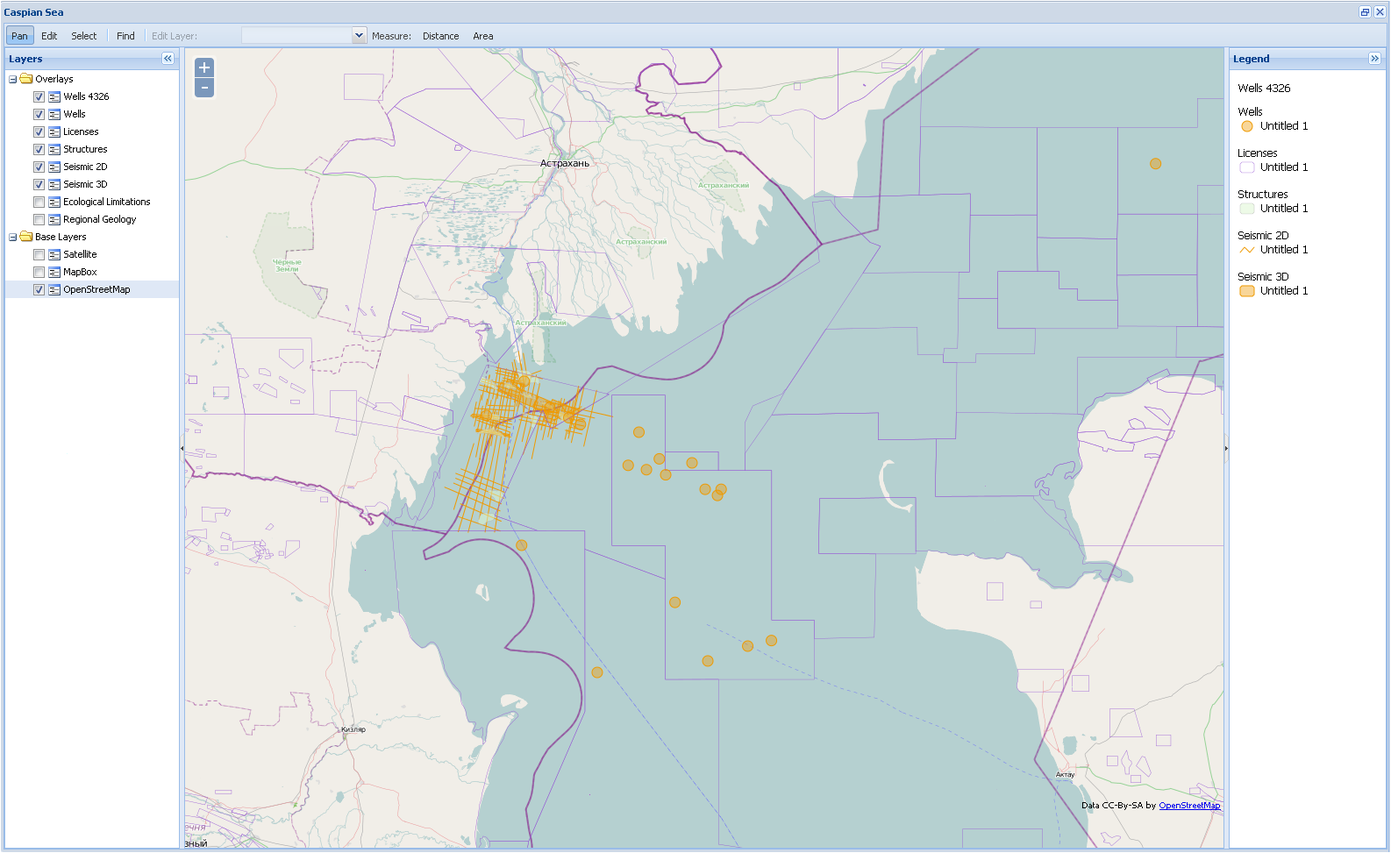
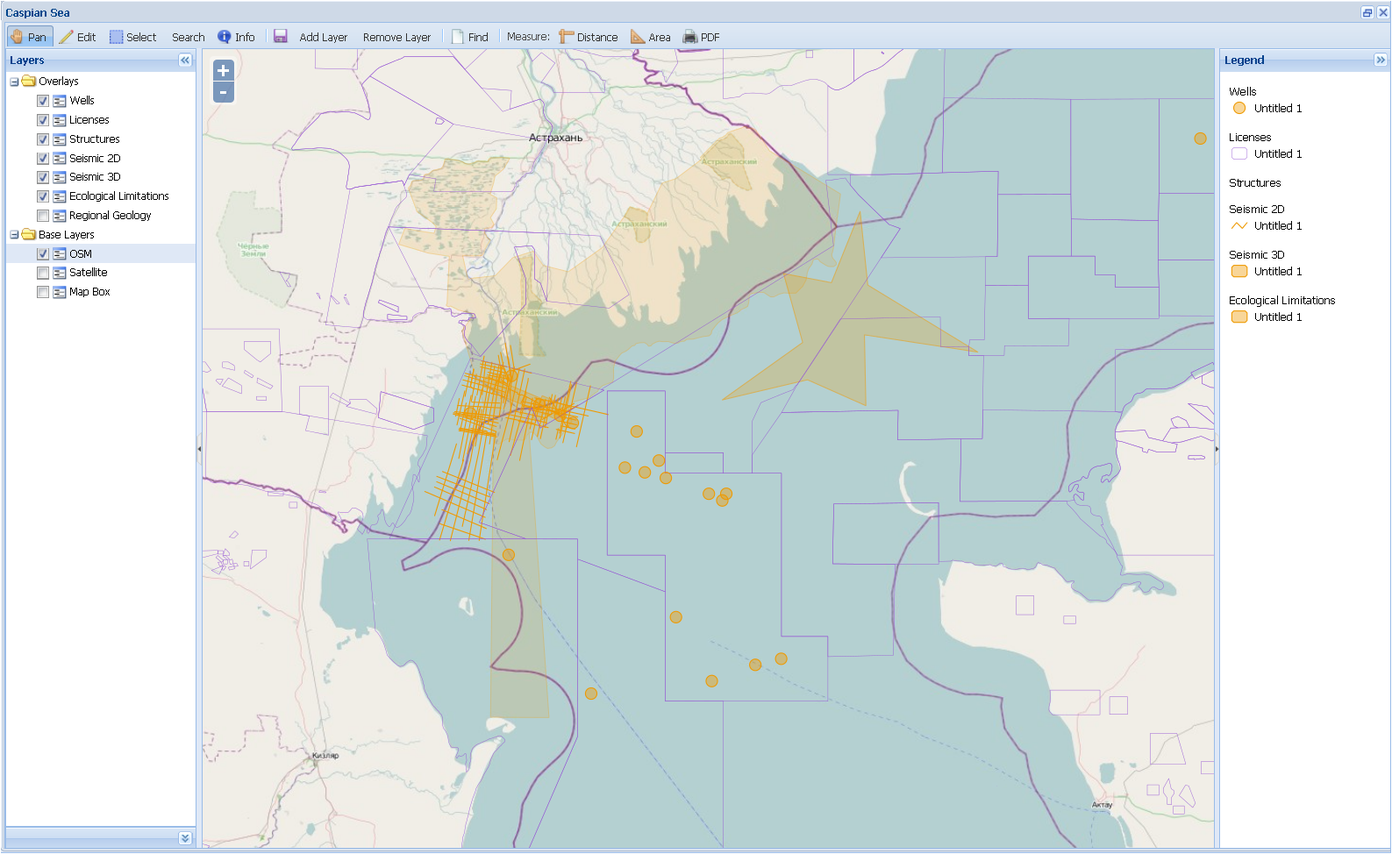
Small fixes? incl. help files

diff --git a/web/app/view/MainWindow.js b/web/app/view/MainWindow.js
@@ -27,7 +27,7 @@ Ext.define('PetroRes.view.MainWindow', {
     
     openPetroWindows: {},
     openPetroWindow: function(handler, windowCfg){
-        var me = this;// Ext.getCmp('MainWindow');
+        var me = Ext.getCmp('MainWindow');//this;// Ext.getCmp('MainWindow');
         var body = me.getLayout().getTarget();
         Ext.applyIf(windowCfg, {
             constrain: true,
@@ -43,7 +43,7 @@ Ext.define('PetroRes.view.MainWindow', {
         });
         var wnd = me.openPetroWindows[handler] ||                         
             (me.openPetroWindows[handler] = 
-            Ext.create('Ext.Window', windowCfg));
+            Ext.create('Ext.window.Window', windowCfg));
         wnd.show();
     },
     
@@ -297,34 +297,20 @@ Ext.define('PetroRes.view.MainWindow', {
                                         }
                                     }
                                     , onUnselect: function(){
-                                        //mapPanel.map.removePopup(selectControlHover.baloon);
                                         selectControlHover.baloon.close();
                                     }
                                     , onSelect: function(selected){
                                         if(selectControlHover.baloon){
-                                            //mapPanel.map.removePopup(selectControlHover.baloon);
                                             selectControlHover.baloon.close();
                                         }
-                                        
-                                        //selectControlHover.baloon = new OpenLayers.Popup("chicken",
-                                        //    new OpenLayers.LonLat(selected.geometry.bounds.right, 
-                                        //        selected.geometry.bounds.bottom),
-                                        //    new OpenLayers.Size(300,200),
-                                        //    '',
-                                        //    false);
-                                        //selectControlHover.baloon.closeOnMove = true;
-                                        //mapPanel.map.addPopup(selectControlHover.baloon);
                                         var pix = mapPanel.map.getPixelFromLonLat(
                                             new OpenLayers.LonLat(selected.geometry.bounds.right, 
                                             selected.geometry.bounds.bottom));
-                                        //console.log(selected);
                                         selectControlHover.baloon = Ext.create('Ext.window.Window', {
-                                        //Ext.create('Ext.panel.Panel', {
-                                            //renderTo: selectControlHover.baloon.contentDiv,
-                                            title: 'Features',
+                                            title: 'Object Attributes',
                                             layout: 'fit',
-                                            height: 200,
-                                            width: 200,
+                                            height: 300,
+                                            width: 300,
                                             x: pix.x,
                                             y: pix.y,
                                             defaults:{
@@ -735,6 +721,7 @@ Ext.define('PetroRes.view.MainWindow', {
                                     {
                                         xtype: 'button',
                                         text: 'Search',
+                                        icon: 'images/search.png',
                                         tooltip: 'Search',
                                         toggleGroup: 'modeGr',
                                         toggleHandler: function (th, pressed){
@@ -792,68 +779,69 @@ Ext.define('PetroRes.view.MainWindow', {
                                     !petroresConfig.userIsAdmin ?undefined:{
                                         xtype: 'button',
                                         text: 'Add Layer',
+                                        icon: 'lib/ext41/resources/themes/images/default/dd/drop-add.gif',
                                         handler: function (){
-                                            var wnd =  Ext.getCmp('MainWindow');
-                                            {
-                                                var form = Ext.create('Ext.form.Panel', {
-                                                    layout: 'anchor',
-                                                    defaults: {
-                                                        anchor: '100%'
+                                            var addLayWnd;
+                                            var form = Ext.create('Ext.form.Panel', {
+                                                layout: 'anchor',
+                                                defaults: {
+                                                    anchor: '100%'
+                                                },
+                                                autoScroll: true,
+                                                items: [
+                                                    {
+                                                        xtype: 'textfield',
+                                                        fieldLabel: 'Name',
+                                                        name: 'name'
                                                     },
-                                                    //autoScroll: true,
-                                                    items: [
-                                                        {
-                                                            xtype: 'textfield',
-                                                            fieldLabel: 'Name',
-                                                            name: 'name'
-                                                        },
-                                                        {
-                                                            xtype: 'textfield',
-                                                            fieldLabel: 'URL',
-                                                            name: 'url'
-                                                        },
-                                                        {
-                                                            xtype: 'textfield',
-                                                            fieldLabel: 'Layer(s)',
-                                                            name: 'layers'
-                                                        }
-                                                    ],
-                                                    buttons: [
-                                                        {
-                                                            text: 'Add',
-                                                            handler: function(){
-                                                                var attrs = form.getForm().getFieldValues(true);
-                                                                mapPanel.map.addLayer(new OpenLayers.Layer.WMS(
-                                                                    attrs.name, 
-                                                                    attrs.url, 
-                                                                    {
-                                                                        layers: attrs.layers
-                                                                    }, {
-                                                                        transitionEffect: 'resize',
-                                                                        projection: 'EPSG:900913'
-                                                                    })
-                                                                );
-                                                                wnd.openPetroWindows.addLayerWnd.close();
-                                                        }
-                                                        }                                            
-                                                    ]
-                                                });
-                                                wnd.openPetroWindow('addLayerWnd', {
-                                                    closable: true,
-                                                    title: 'Add WMS Layer',
-                                                    maximizable: false,
-                                                    maximized: false,
-                                                    layout: 'fit',
-                                                    items: [
-                                                        form
-                                                    ]
-                                                });
-                                            }                                            
+                                                    {
+                                                        xtype: 'textfield',
+                                                        fieldLabel: 'URL',
+                                                        name: 'url'
+                                                    },
+                                                    {
+                                                        xtype: 'textfield',
+                                                        fieldLabel: 'Layer(s)',
+                                                        name: 'layers'
+                                                    }
+                                                ],
+                                                buttons: [
+                                                    {
+                                                        text: 'Add',
+                                                        handler: function(){
+                                                            var attrs = form.getForm().getFieldValues(true);
+                                                            mapPanel.map.addLayer(new OpenLayers.Layer.WMS(
+                                                                attrs.name, 
+                                                                attrs.url, 
+                                                                {
+                                                                    layers: attrs.layers
+                                                                }, {
+                                                                    transitionEffect: 'resize',
+                                                                    projection: 'EPSG:900913'
+                                                                })
+                                                            );
+                                                            wnd.openPetroWindows.addLayerWnd.close();
+                                                    }
+                                                    }                                            
+                                                ]
+                                            });
+                                            addLayWnd = Ext.create('Ext.window.Window', {
+                                                closable: true,
+                                                title: 'Add WMS Layer',
+                                                maximizable: false,
+                                                maximized: false,
+                                                layout: 'fit',
+                                                items: [
+                                                    form
+                                                ]
+                                            });
+                                            addLayWnd.show();
                                         }
                                     },
                                     !petroresConfig.userIsAdmin ?undefined:{
                                         xtype: 'button',
                                         text: 'Remove Layer',
+                                        icon: 'lib/ext41/examples/restful/images/delete.png',
                                         handler: function (){
                                             if(tree.psSelectedLayer){
                                                 Ext.MessageBox.confirm('Confirm', 
@@ -865,7 +853,7 @@ Ext.define('PetroRes.view.MainWindow', {
                                                 });
                                             }else{
                                                 Ext.MessageBox.show({
-                                                    msg: 'Select layer in tree',
+                                                    msg: 'Select a layer in the layer tree',
                                                     buttons: Ext.Msg.OK
                                                 });
                                             }
@@ -874,8 +862,8 @@ Ext.define('PetroRes.view.MainWindow', {
                                     '-', 
                                     {
                                         xtype: 'button',
-                                        tooltip: 'Find',
-                                        text: 'Find',
+                                        tooltip: 'Find documents for selected objects',
+                                        text: 'Find Documents',
                                         iconCls: 'petroButtonMapFindDocs',
                                         handler: function(){
                                             Ext.Ajax.request({
@@ -959,42 +947,51 @@ Ext.define('PetroRes.view.MainWindow', {
                                         }                                        
                                     },
                                     '-', 
-                                    'Measure: '
-                                    , Ext.create('Ext.button.Button', Ext.create('GeoExt.Action', {
-                                        toggleGroup: 'modeGr',
-                                        iconCls: 'petroButtonMapDistance',
-                                        tooltip: 'Distance',
-                                        text: 'Distance',
-                                        activateOnEnable: true,
-                                        deactivateOnDisable: true,
-                                        control: new OpenLayers.Control.Measure(OpenLayers.Handler.Path, {
-                                            eventListeners: {
-                                                measure: function(evt) {
-                                                    Ext.Msg.alert('Distance',
-                                                        'The distance is ' + evt.measure.toFixed(2) + ' '+ evt.units);
-                                                }
-                                            }                                        
-                                        }),
-                                        map: mapPanel.map
-                                    }))
-                                    , Ext.create('Ext.button.Button', Ext.create('GeoExt.Action', {
-                                        toggleGroup: 'modeGr',
-                                        text: 'Area',
-                                        tooltip: 'Area',
-                                        iconCls: 'petroButtonMapArea',
-                                        activateOnEnable: true,
-                                        deactivateOnDisable: true,
-                                        control: new OpenLayers.Control.Measure(OpenLayers.Handler.Polygon, {
-                                            eventListeners: {
-                                                measure: function(evt) {
-                                                    Ext.Msg.alert('Area',
-                                                        'The area is ' + + evt.measure.toFixed(2) + ' '+ evt.units + '<sup>2</sup>');
-                                                    //alert("The area is " + evt.measure + evt.units);
-                                                }
-                                            }                                        
-                                        }),
-                                        map: mapPanel.map
-                                    }))                                    
+                                    
+                                    
+                                    
+                                    //'Measure: '
+                                    ,{
+                                        xtype: 'button',
+                                        text: 'Measure',
+                                        menu: [
+                                            Ext.create('Ext.button.Button', Ext.create('GeoExt.Action', {
+                                                toggleGroup: 'modeGr',
+                                                iconCls: 'petroButtonMapDistance',
+                                                tooltip: 'Distance',
+                                                text: 'Distance',
+                                                activateOnEnable: true,
+                                                deactivateOnDisable: true,
+                                                control: new OpenLayers.Control.Measure(OpenLayers.Handler.Path, {
+                                                    eventListeners: {
+                                                        measure: function(evt) {
+                                                            Ext.Msg.alert('Distance',
+                                                                'The distance is ' + evt.measure.toFixed(2) + ' '+ evt.units);
+                                                        }
+                                                    }                                        
+                                                }),
+                                                map: mapPanel.map
+                                            }))
+                                            , Ext.create('Ext.button.Button', Ext.create('GeoExt.Action', {
+                                                toggleGroup: 'modeGr',
+                                                text: 'Area',
+                                                tooltip: 'Area',
+                                                iconCls: 'petroButtonMapArea',
+                                                activateOnEnable: true,
+                                                deactivateOnDisable: true,
+                                                control: new OpenLayers.Control.Measure(OpenLayers.Handler.Polygon, {
+                                                    eventListeners: {
+                                                        measure: function(evt) {
+                                                            Ext.Msg.alert('Area',
+                                                                'The area is ' + + evt.measure.toFixed(2) + ' '+ evt.units + '<sup>2</sup>');
+                                                            //alert("The area is " + evt.measure + evt.units);
+                                                        }
+                                                    }                                        
+                                                }),
+                                                map: mapPanel.map
+                                            }))                                    
+                                        ]
+                                    }
                                     , Ext.create('Ext.button.Button', {
                                         tooltip: 'PDF',
                                         text: 'PDF',
@@ -1036,7 +1033,6 @@ Ext.define('PetroRes.view.MainWindow', {
             text: 'Options',
             menu: {
                 xtype: 'menu',
-                //width: 120,
                 items: [
                 {
                     text: 'Settings',

diff --git a/web/docs/4.html b/web/docs/4.html
@@ -6,22 +6,23 @@
 </head>
 <body>
 <div class="x-help x-help-wrapper">
-<p><b>Меню Documents</b></p>
+<p><b>Меню Map</b></p>
 <p>Меню <b>Map (Карта)</b> служит для просмотра карты и управления пространственными объектами, к которым осуществлена привязка документов. Меню имеет единственную опцию <i>Caspian Sea</i>.</p>
 <img class="x-help-img" src="images/image058.png"/>
 <p>При ее активации в рабочем окне Приложения появится специальный интерфейс с названием выбранной опции <b>Caspian Sea</b>, в котором имеются три поля: главное поле – для выведения карты в полноэкранном режиме, и два вспомогательных – для управления картографическими основами и тематическими слоями (слева) и для размещения легенды (справа). Вспомогательные поля имеют динамические границы и могут быть полностью свернуты.</p>
 <img class="x-help-img" src="images/image059.png" width=800/>
 <p>Вспомогательное поле <b>Layers (Слои)</b> позволяет управлять видом отображаемой карты. Для этого пользователь должен выбрать и отметить галочкой удобную для него картографическую основу (Base Layers) (два вида картооснов или космический снимок), а также отметить необходимые для работы тематические слои (Overlays), отключив ненужные. Набор тематических слоев определяется администратором системы.</p>
-<p><img class="x-help-img" src="images/image060.png"/></p>
+<p><img class="x-help-img" src="images/image060.png" width=200/></p>
+<p>В нижней части поля находится изначально свернутая панель регулирования прозрачности/непрозрачности объектов тематических слоев. При засветке курсором названия любого тематического поля эта панель развернется и отобразит шкалу с бегунком для регулирования степени прозрачности (от 0% до 100%) объектов данного слоя.</p>
+<p><img class="x-help-img" src="images/image060a.png"/></p>
 <p>Вспомогательное поле <b>Legend (Легенда)</b> служит для распознавания отображённых на карте пространственных объектов.
 <p><img class="x-help-img" src="images/image061.png"/></p>
 <p>В главном поле карту можно уменьшать или увеличивать с помощью встроенного инструмента масштабирования <img class="x-help-img" src="images/image042.png" width=15/>, а также используя стандартные возможности колеса мыши: прокрутка от себя – приближение к объекту, на себя – отдаление от объекта.<br>
 Функциональные возможности главного поля представлены на панели меню интерфейса <b>Caspian Sea</b>.</p>
 <p><img class="x-help-img" src="images/image062.png"/></p>
 <p>1. Меню <img class="x-help-img" src="images/image063.png"/>  (<i>Панорамировать карту</i>) - перемещение карты в главном поле.<br> При активном инструменте можно перемещать видимую область карты, двигая курсор с зажатой левой кнопкой мыши. При этом курсор мыши поменяет вид с <img class="x-help-img" src="images/image064.png" width=25/> на <img class="x-help-img" src="images/image065.png" width=25/>. </p>
-<p>2. Меню <img class="x-help-img" src="images/image066.png"/>   (<i>Редактировать</i>) – изменение пространственных объектов, представленных на карте.<br> При активном инструменте появится возможность воспользоваться окошком <b>Edit Layer</b> (Редактировать слой) <img class="x-help-img" src="images/image067.png"/> и указать в нём вручную или выбрать из ниспадающего списка тот тематический слой, в котором предполагается осуществлять редактирование объектов.</p>
-<p><img class="x-help-img" src="images/image068.png"/></p>
-<p>После выбора тематического слоя в правом верхнем углу поля карты появятся кнопки инструментария для редактирования. Вид некоторых кнопок может меняться в зависимости от типа редактируемого объекта. Кнопки активируются нажатием курсора на них, при этом они подсвечиваются жёлтым цветом.</p>
+<p>2. Меню <img class="x-help-img" src="images/image066.png"/>   (<i>Редактировать</i>) – изменение пространственных объектов, представленных на карте.<br>Чтобы приступить к редактированию, сначала следует выбрать тематический слой, в котором предполагается производить изменения. Для этого нужно выделить (засветить) название этого слоя во вспомогательном поле <b>Layers</b>, нажав курсором на его названии.<br>
+После выбора тематического слоя и активации меню <img class="x-help-img" src="images/image066.png"/> в правом верхнем углу поля карты появятся кнопки инструментария для редактирования. Вид некоторых кнопок (в частности, кнопок рисования) может меняться в зависимости от выбранного типа редактируемого объекта. Кнопки активируются нажатием курсора на них, при этом они подсвечиваются жёлтым цветом.</p>
 <p><img class="x-help-img" src="images/image069.png"/></p>
 <p>Кнопки <img class="x-help-img" src="images/image070.png"/>, <img class="x-help-img" src="images/image071.png"/>, <img class="x-help-img" src="images/image072.png"/> - инструменты <i>Draw Point, Draw Line, Draw Polygon</i> (Рисование объектов: точки, линии, полигоны). После активации курсор поменяет вид с <img class="x-help-img" src="images/image064.png" width=25/>  на <img class="x-help-img" src="images/image073.png"width=40/>.</p>
 <p>Для нанесения на карту <i>точечного объекта</i> следует подвести курсор к нужной точке и нажать кнопку мыши. В появившемся дополнительном окне <b>Specify Attributes</b> заполнить атрибутивные поля.</p>
@@ -37,17 +38,34 @@
 <p>Кнопка <img class="x-help-img" src="images/image078.png"/> - инструмент <i>Delete Feature</i> (Удаление объекта). После активации навести курсор на удаляемый объект и нажать кнопку мыши.</p>
 <p>Кнопка <img class="x-help-img" src="images/image079.png"/>  - инструмент <i>Save Changes</i> (Сохранение изменений). Сохраняет результаты редактирования объектов.</p>
 <p>Кнопка <img class="x-help-img" src="images/image080.png"/>  - инструмент <i>Pan Map</i> (Панорамирование карты). Перемещение карты по полю. Кнопка активирована по умолчанию после входа пользователя в режим редактирования пространственных объектов.</p>
-<p>3. Меню <img class="x-help-img" src="images/image081.png"/> (<i>Выбрать</i>) – выбор одного или нескольких объектов на карте. При активном инструменте следует навести курсор на нужный объект, и нажать левую кнопку мыши. Выделенный объект поменяет цвет.<br>
-Выбрать несколько объектов можно, очертив их прямоугольной областью, перемещая курсор в рабочем окне карты с зажатой левой кнопкой мыши и одновременно нажатой клавишей Shift.<br>
+<p>3. Меню <img class="x-help-img" src="images/image081.png"/> (<i>Выбрать</i>) – выбор одного или нескольких объектов на карте.<br> При активном инструменте следует навести курсор на нужный объект, и нажать левую кнопку мыши. Выделенный объект поменяет цвет.<br>
+Выбрать несколько объектов можно, очертив их прямоугольной областью, перемещая курсор в рабочем окне карты.<br>
 Снять выделение объекта можно, снова нажав на него курсором.</p>
 <p><img class="x-help-img" src="images/image082.png"/></p>
-<p>4. Меню  <img class="x-help-img" src="images/image083.png"/> (<i>Найти</i>) – поиск документов, имеющих привязку к пространственным объектам. Для получения информации о документах, связанных с пространственным объектом, необходимо выбрать его с помощью меню <img class="x-help-img" src="images/image081.png"/>  и нажать кнопку <img class="x-help-img" src="images/image083.png"/>. Появится дополнительное окно <b>Found Documents</b>, в котором будут выведены найденные документы. Работа с этим окном аналогична действиям с командой <b>Find</b> (см. <a href="3.2.1.html">Простой поиск</a>).</p>
+<p>4. Меню <img class="x-help-img" src="images/image082a.png"/>  (<i>Искать</i>) - поиск объекта по заданному значению атрибута.<br> Для поиска необходимо засветить тематический слой, к которому относится искомый объект, и активировать кнопку меню. В появившемся дополнительном окне <b>Find By Attributes</b> (с разным набором атрибутивных полей для различных типов объектов) ввести атрибуты объекта, по которым будет осуществляться поиск, и нажать кнопку <i>Search</i>. Найденный объект подсветится на карте.
+<p><img class="x-help-img" src="images/image113.png"/></p>
+<p>5. Меню <img class="x-help-img" src="images/image067.png"/>  (<i>Информация</i>) - получение информации об объекте.<br> При активном инструменте следует навести курсор на нужный объект, и нажать левую кнопку мыши. Объект засветится и появится дополнительное окно <b>Features</b> с атрибутивными характеристиками данного объекта.
+<p><img class="x-help-img" src="images/image068.png"/>
+<p>В правом нижнем углу окна <b>Features</b> имеется опция <i>Documents</i>, при выборе которой появится дополнительное окно <b>Found Documents</b> с перечнем всех документов, относящихся к этому объекту. Работа с этим окном аналогична действиям с командой <b>Find</b> (см. <a href="3.2.1.html">Простой поиск</a>).
+<p>6. Меню <img class="x-help-img" src="images/image082b.png"/>  (<i>Сохранить конфигурацию</i>) - сохранение текущих пользовательских настроек состава и отображения тематических слоев.
+<p>7. Меню <img class="x-help-img" src="images/image082c.png"/>  (<i>Добавить слой</i>) – добавление тематических слоев.<br>
+После активации меню заполнить необходимые поля в дополнительном окне <b>Add WMS Layer</b> и нажать кнопку <i>Add</i>. Новый слой появится в списке тематических слоев в поле <b>Layers</b>.
+<p><img class="x-help-img" src="images/image082d.png" width=500/>
+<p>8. Меню <img class="x-help-img" src="images/image082e.png"/>  (<i>Удалить слой</i>) – удаление тематических слоев.<br> 
+Засветить курсором удаляемый слой в списке слоев в поле <b>Layers</b> и активировать меню. Появится окно предупреждения с требованием подтвердить удаление слоя с карты. 
+<p><img class="x-help-img" src="images/image082f.png"/>
+<p>Если удаляемый слой не задан, программа попросит сначала выбрать слой.
+<p><img class="x-help-img" src="images/image082g.png"/>
+<p>9. Меню  <img class="x-help-img" src="images/image083.png"/> (<i>Найти</i>) – поиск документов, имеющих привязку к пространственным объектам.<br> Для получения информации о документах, связанных с пространственным объектом, необходимо выделить тематический слой, в котором находится объект, выбрать его с помощью меню <img class="x-help-img" src="images/image081.png"/>  и нажать кнопку <img class="x-help-img" src="images/image083.png"/>. Появится дополнительное окно <b>Found Documents</b>, в котором будут выведены найденные документы. Работа с этим окном аналогична действиям с командой <b>Find</b> (см. <a href="3.2.1.html">Простой поиск</a>).</p>
 <p><img class="x-help-img" src="images/image084.png"/></p>
-<p>5. Меню <img class="x-help-img" src="images/image085.png"/>  (<i>Измерить</i>) – измерение длины или площади на карте. Для измерения расстояния надо активировать кнопку <img class="x-help-img" src="images/image086.png"/>, для измерения площади – кнопку <img class="x-help-img" src="images/image087.png"/>.<br>
+<p>10. Меню <img class="x-help-img" src="images/image085.png"/>  (<i>Измерить</i>) – измерение длины или площади на карте.<br> Для измерения расстояния надо активировать кнопку <img class="x-help-img" src="images/image086.png"/>, для измерения площади – кнопку <img class="x-help-img" src="images/image087.png"/>.<br>
 Для измерения линейного объекта надо нажать кнопку мыши в начальной точке (в точках поворота тоже разовое нажатие) и дважды нажать кнопку в конечной точке объекта. В появившемся окне будет указана измеренная длина в км.
 <p><img class="x-help-img" src="images/image088.png"/></p>
 Для измерения площадного объекта его территория очерчивается многоугольником, завершающая точка ставится двойным нажатием левой кнопки мыши. В появившемся окне будет указана измеренная длина в км2.
 <p><img class="x-help-img" src="images/image089.png"/></p>
+<p>11. Меню <img class="x-help-img" src="images/image114.png"/> (<i>Печать</i>) -  сохранение карты в формате PDF для печати.<br>
+Активировать кнопку и в появившемся окне выбрать необходимую опцию. Файл можно либо открыть в программе Adobe Reader для просмотра и вывода на печать, либо сохранить в формате PDF на локальном компьютере.
+<p><img class="x-help-img" src="images/image115.png"/></p>
 </div>	
 </body>
 </html>

diff --git a/web/docs/3.2.2.html b/web/docs/3.2.2.html
@@ -11,7 +11,7 @@
 <img class="x-help-img" src="images/image052a.png"/><br> 
 При нажатии на пиктограмму <img class="x-help-img" src="images/image053.png"/> поле развернётся и отобразит заполняемую форму параметров поиска.</p>
 <p><img class="x-help-img" src="images/image054.png" width=700/></p>
-<p>Форма расширенного поиска представляет собой слегка видоизменённую форму карточки метаданных, в которой пользователь может задать любое число элементов поиска: одно или несколько требуемых значений и не заполнять ненужные для поиска параметры.<br>
+<p>Форма расширенного поиска представляет собой слегка видоизменённую форму карточки метаданных, в которой пользователь может задать любое число элементов поиска: одно или несколько требуемых значений, и не заполнять ненужные для поиска параметры.<br>
 При использовании элементов поиска, в которых присутствуют даты, можно задавать интервальный период  «от»  и «до», в который попадают метаданные документов.</p>
 <p>Результаты расширенного поиска представляются в виде списка в дополнительном окне <b>Found Documents (Найденные документы)</b>. Действия с  найденными документами аналогичны действиям при <a href="3.2.1.html">простом поиске</a>.</p>
 <p><img class="x-help-img" src="images/image048.png" width=700/></p>

diff --git a/web/docs/3.html b/web/docs/3.html
@@ -7,7 +7,7 @@
 <body>
 <div class="x-help x-help-wrapper">
 <p><b>Меню Documents</b></p>
-<p>Команды меню <b>Documents (Документы)</b> позволяют регистрировать новые документы, осуществлять простой и расширенный поиск документов и получать доступ к каталогу документов. Команды открываются в ниспадающем списке при нажатии левой кнопкой мыши на название меню или на пиктограмму<img class="x-help-img" src="images/image003.png"/> . Меню содержит три команды – <a href="3.1.html">Register</a>, <a href="3.2.html">Find</a>, <a href="3.3.html">Documents catalog</a>.</p>
+<p>Команды меню <b>Document (Документ)</b> позволяют регистрировать новые документы, осуществлять простой и расширенный поиск документов и получать доступ к каталогу документов. Команды открываются в ниспадающем списке при нажатии левой кнопкой мыши на название меню или на пиктограмму<img class="x-help-img" src="images/image003.png"/> . Меню содержит три команды – <a href="3.1.html">Register</a>, <a href="3.2.html">Find</a>, <a href="3.3.html">Documents catalog</a>.</p>
 <img class="x-help-img" src="images/image004.png"/>
 </div>	
 </body>

diff --git a/web/docs/2.html b/web/docs/2.html
@@ -13,7 +13,7 @@
 <p>Начальный интерфейс АСХД имеет следующий вид.</p>
 <img class="x-help-img" src="images/image002.png" width=700/>
 <p>На верхней панели справа от названия Приложения размещается идентифицированное имя пользователя, под которым был осуществлён вход в систему.<br>
-Нижняя панель - панель главного меню Приложения -  содержит три раскрывающиеся меню <a href="3.html">Documents</a>, <a href="4.html">Map<a/> и <a href="5.html">Options<a/>, а также меню Help для вывода в отдельном окне справочной информации.<br> 
+Нижняя панель - панель главного меню Приложения -  содержит три раскрывающиеся меню <a href="3.html">Document</a>, <a href="4.html">Map<a/> и <a href="5.html">Options<a/>, а также меню Help для вывода в отдельном окне справочной информации.<br> 
 Рабочее окно начального интерфейса является пустым.</p>
 </div>	
 </body>
